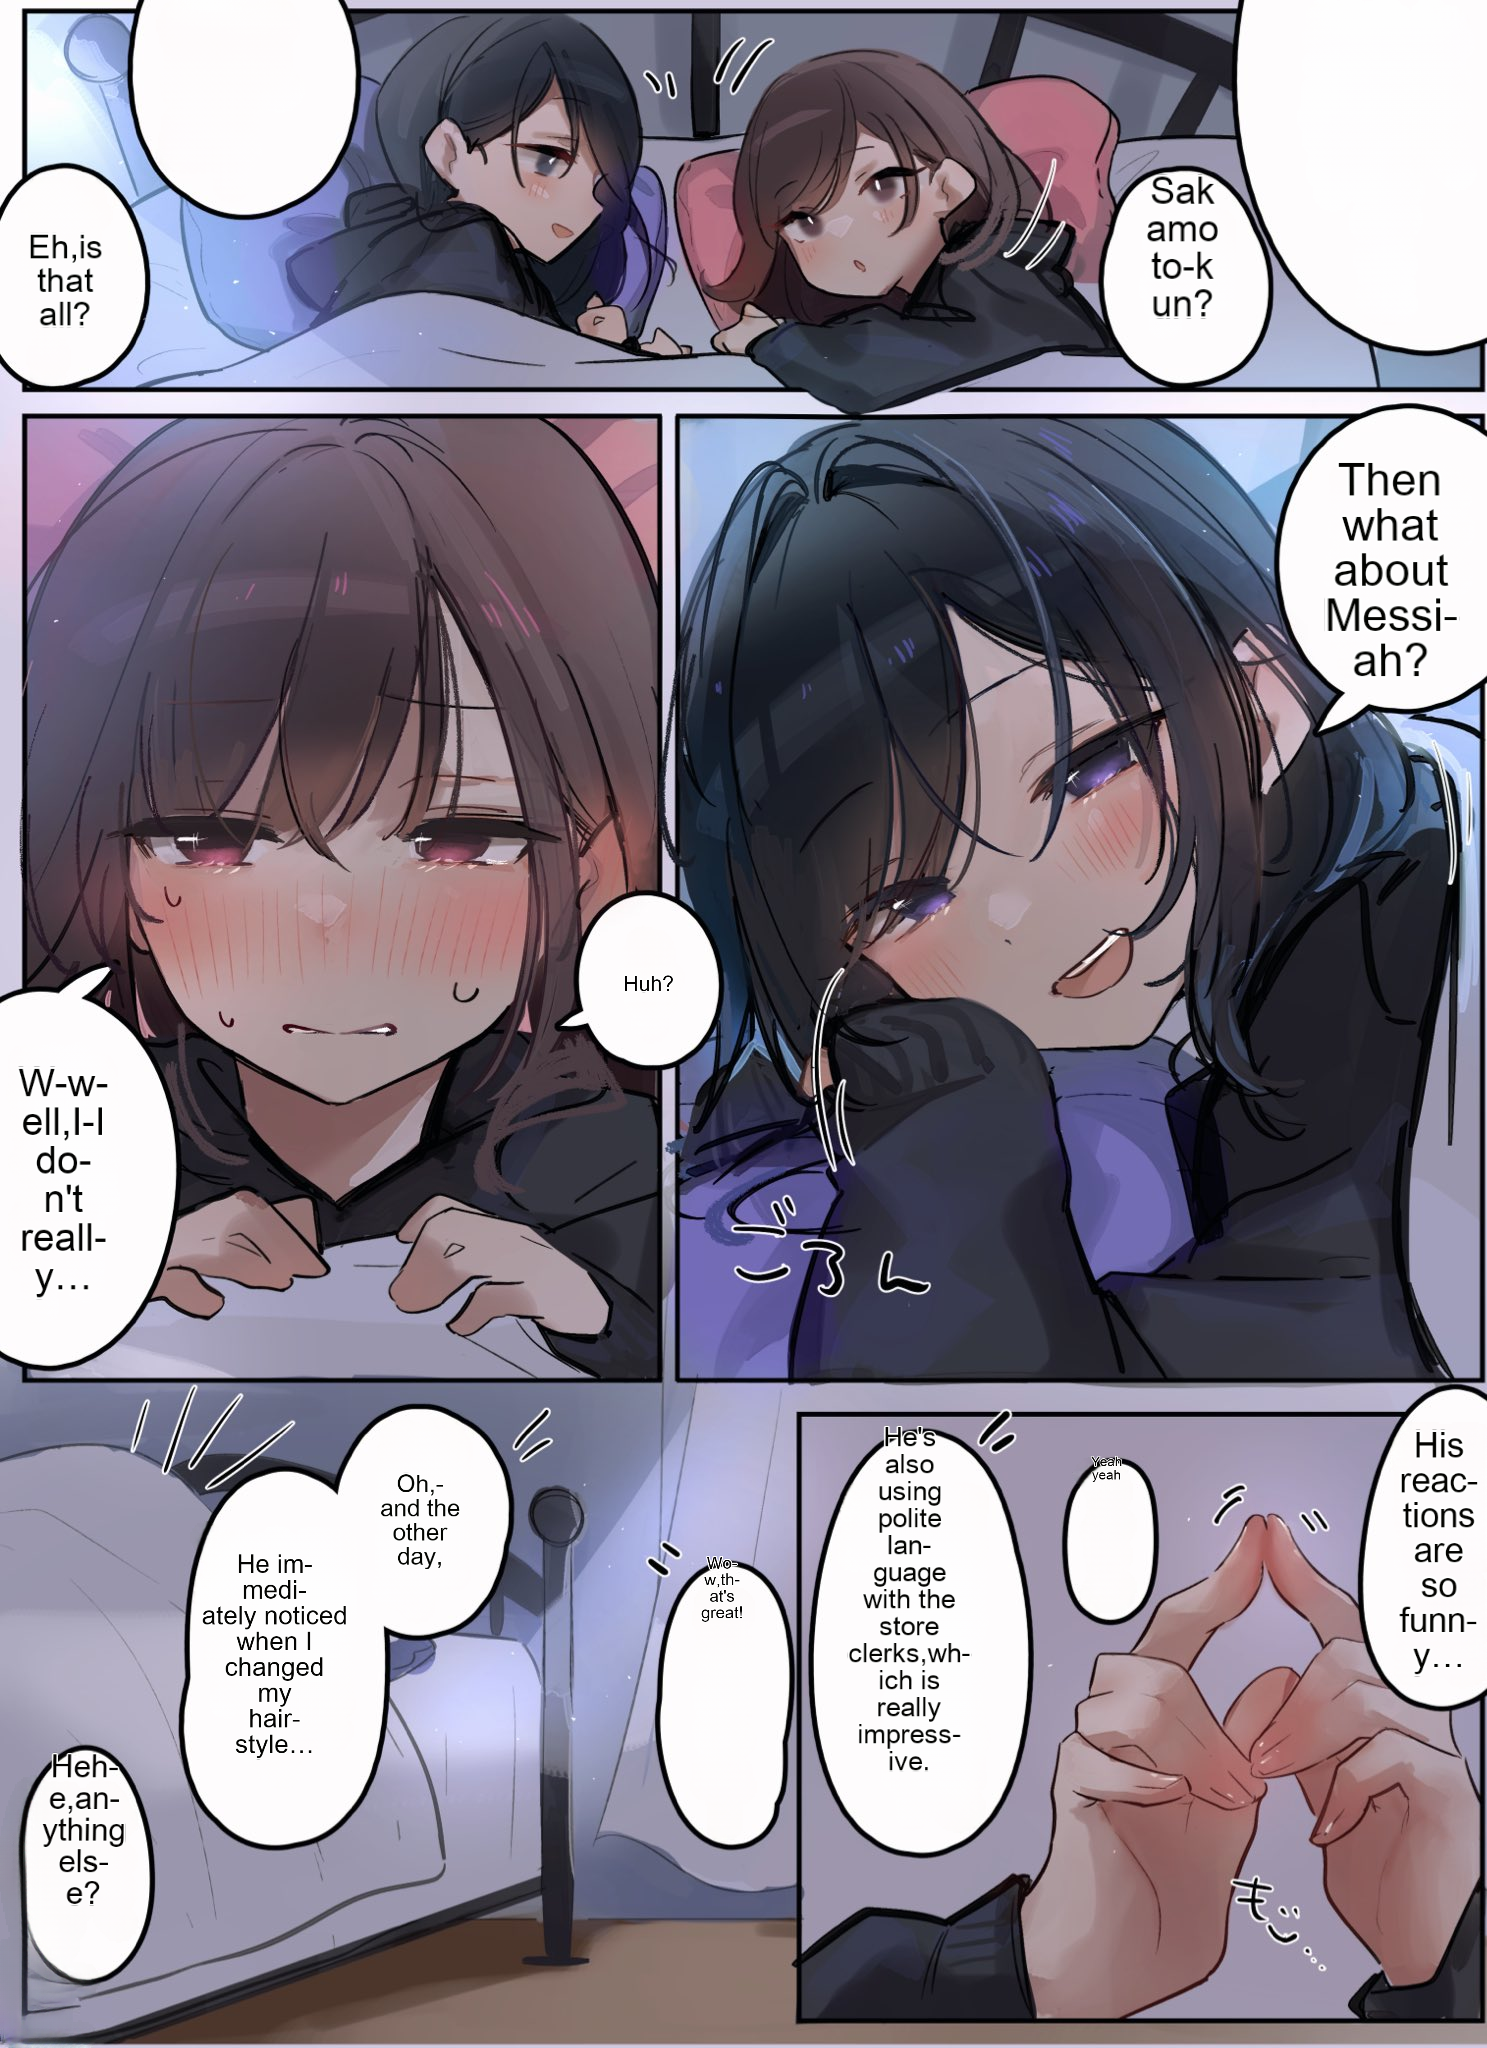
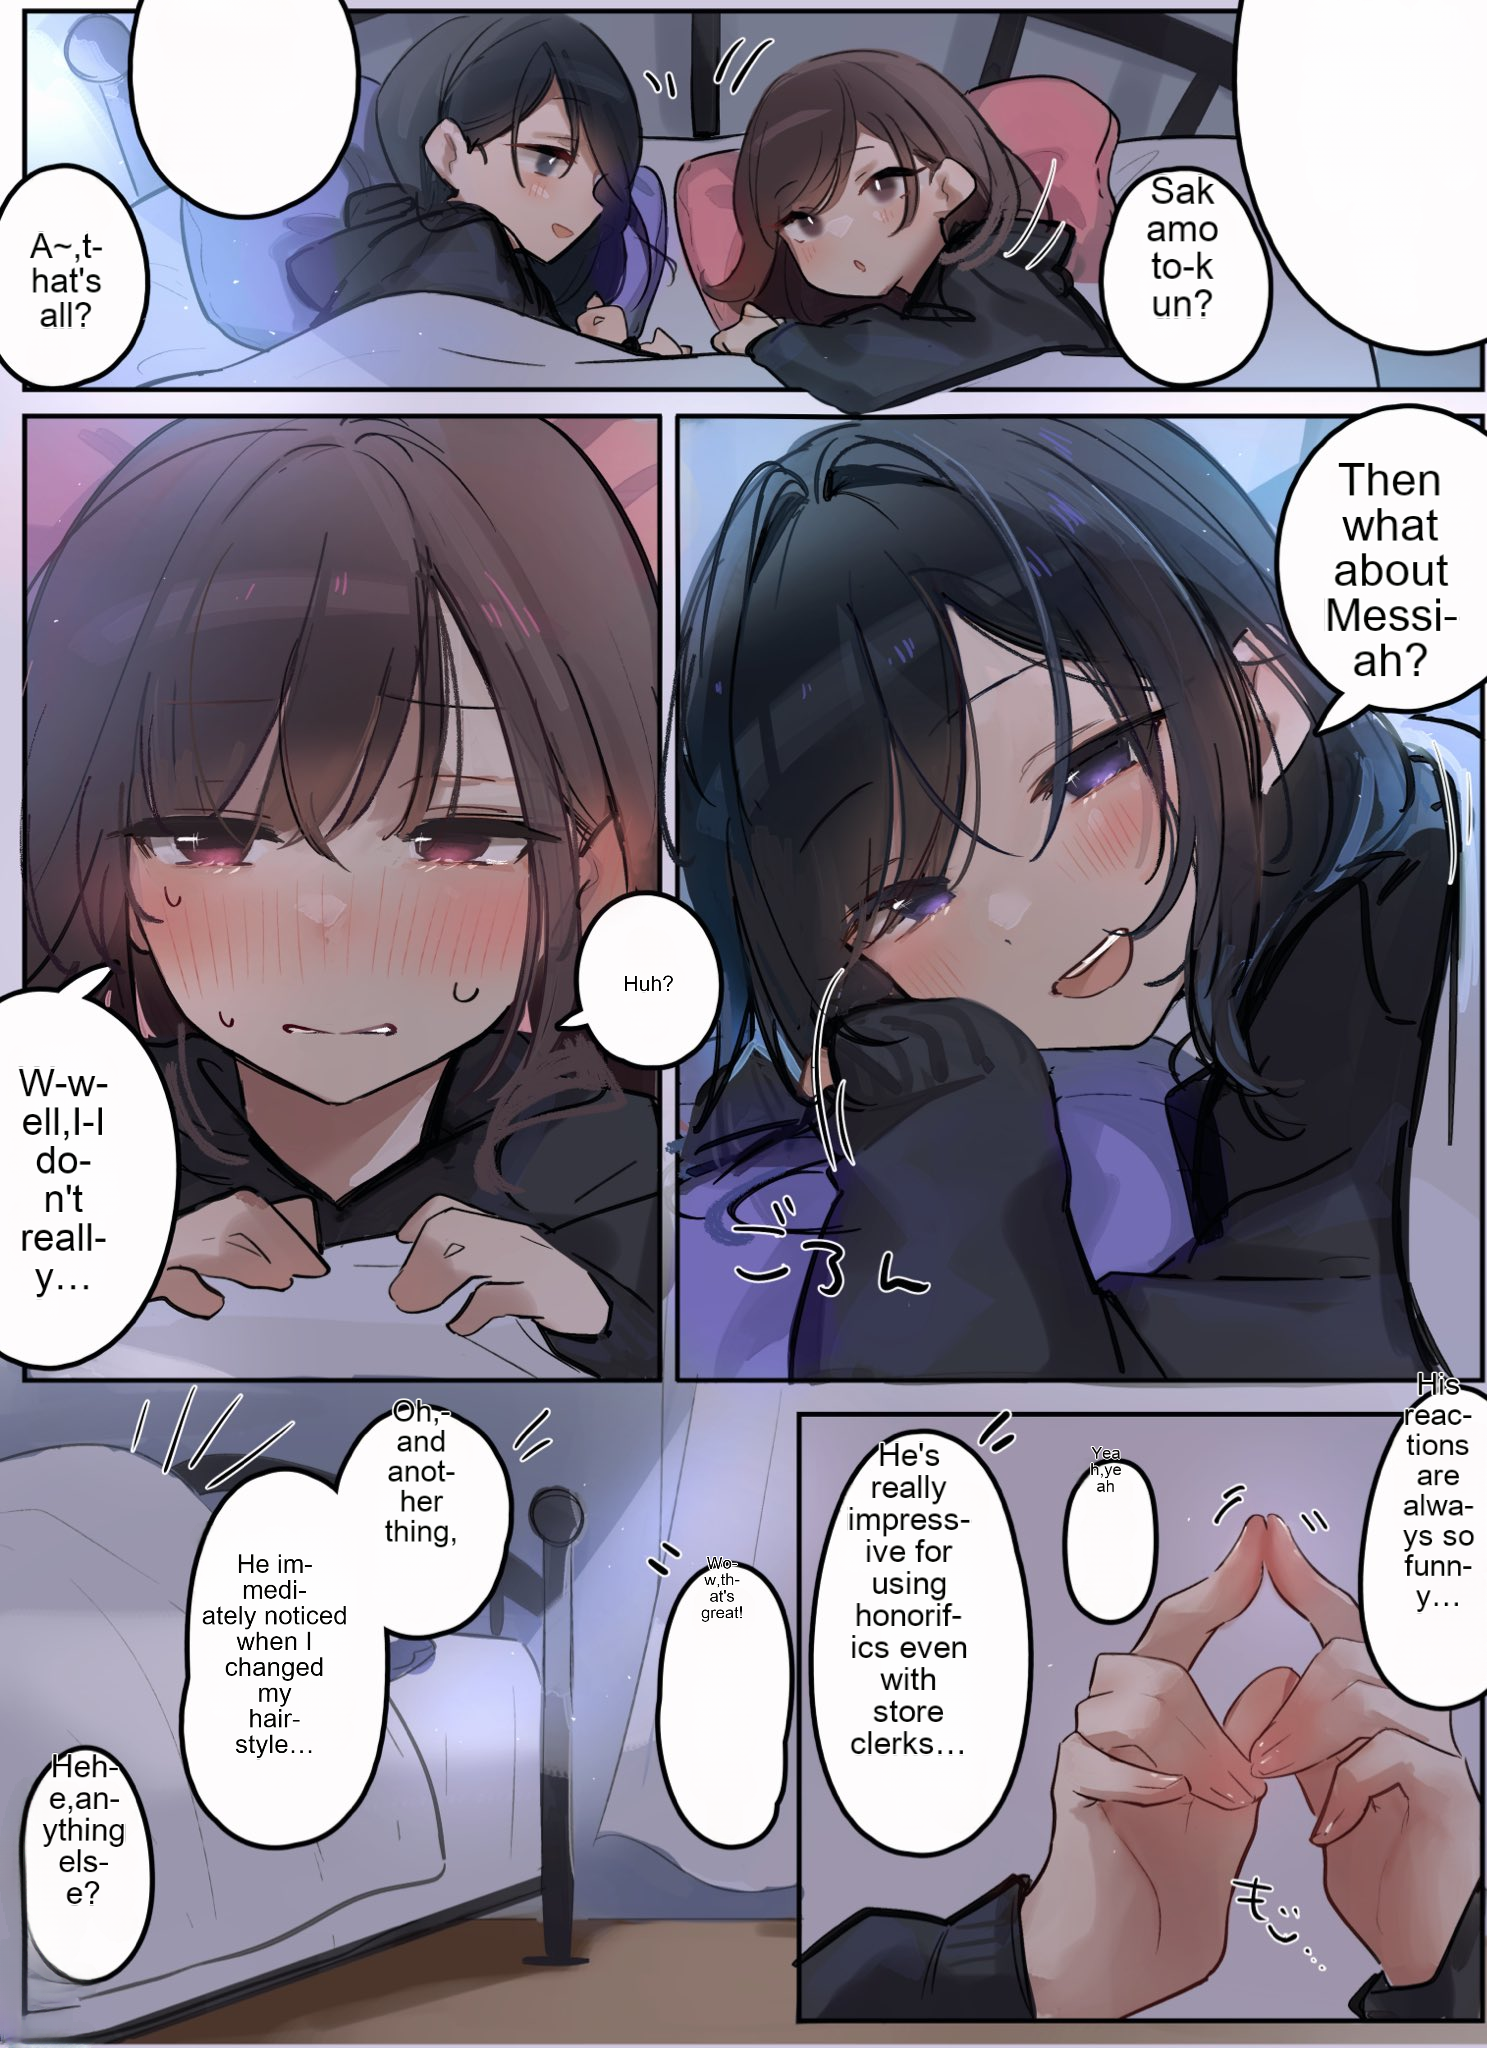
create main.py

diff --git a/main.py b/main.py
@@ -1,0 +1,29 @@
+"""Convenience entry point for running the SnipShot API with `python main.py`."""
+
+import os
+
+import uvicorn
+
+
+def _env_bool(name: str, default: bool = False) -> bool:
+    value = os.getenv(name)
+    if value is None:
+        return default
+    return value.strip().lower() in {"1", "true", "yes", "on"}
+
+
+def main() -> None:
+    host = os.getenv("HOST", "0.0.0.0")
+    port = int(os.getenv("PORT", "8001"))
+    reload = _env_bool("RELOAD", default=False)
+
+    uvicorn.run(
+        "snipshot_engine.server:app",
+        host=host,
+        port=port,
+        reload=reload,
+    )
+
+
+if __name__ == "__main__":
+    main()

diff --git a/test.py b/test.py
@@ -11,14 +11,14 @@ Tests:
 
 Usage:
   # Test 1-3 only (no server needed):
-    python test_snipshot_engine.py --local
+        python test.py --local
 
-  # Test 1-6 (start the server first with uvicorn):
-    uvicorn snipshot_engine.server:app --port 8000
-    python test_snipshot_engine.py
+    # Test 1-6 (start the server first):
+        python main.py
+        python test.py
 
   # Specify a different image or server URL:
-    python test_snipshot_engine.py --image 155.jpg --url http://localhost:9000
+        python test.py --image 155.jpg --url http://localhost:9000
 """
 
 import argparse
@@ -180,7 +180,7 @@ async def test_server(api_url: str, image_path: str):
         except httpx.ConnectError:
             print(f"    FAIL  Cannot connect to {api_url}")
             print("    Is the server running? Start it with:")
-            print(f"      uvicorn snipshot_engine.server:app --port 8000")
+            print("      python main.py")
             return False
 
         # Load image bytes
@@ -244,7 +244,7 @@ def main():
     parser = argparse.ArgumentParser(description="Test snipshot_engine")
     parser.add_argument("--local", action="store_true", help="Run only local tests (1-3), skip server tests")
     parser.add_argument("--image", default="test-image.png", help="Path to a manga/manhwa test image (default: 15.jpg)")
-    parser.add_argument("--url", default="http://localhost:8001", help="Server URL for endpoint tests (default: http://localhost:8000)")
+    parser.add_argument("--url", default="http://localhost:8001", help="Server URL for endpoint tests (default: http://localhost:8001)")
     args = parser.parse_args()
 
     print("=" * 60)

diff --git a/SNIPSHOT_ENGINE_GUIDE.md b/SNIPSHOT_ENGINE_GUIDE.md
@@ -60,11 +60,21 @@ PORT=8000
 
 ### 3. Run the server
 
+Recommended:
+
+```bash
+python main.py
+```
+
+This starts `snipshot_engine.server:app` on `0.0.0.0:8001`.
+
+You can also run Uvicorn directly:
+
 ```bash
 uvicorn snipshot_engine.server:app --host 0.0.0.0 --port 8001
 ```
 
-Or with auto-reload during development:
+With auto-reload during development:
 
 ```bash
 uvicorn snipshot_engine.server:app --host 0.0.0.0 --port 8001 --reload